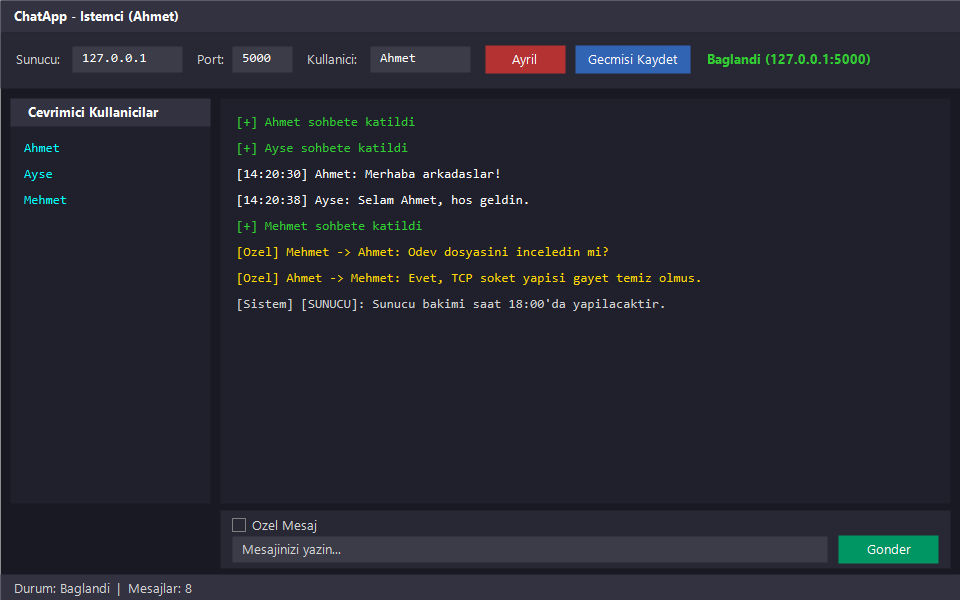
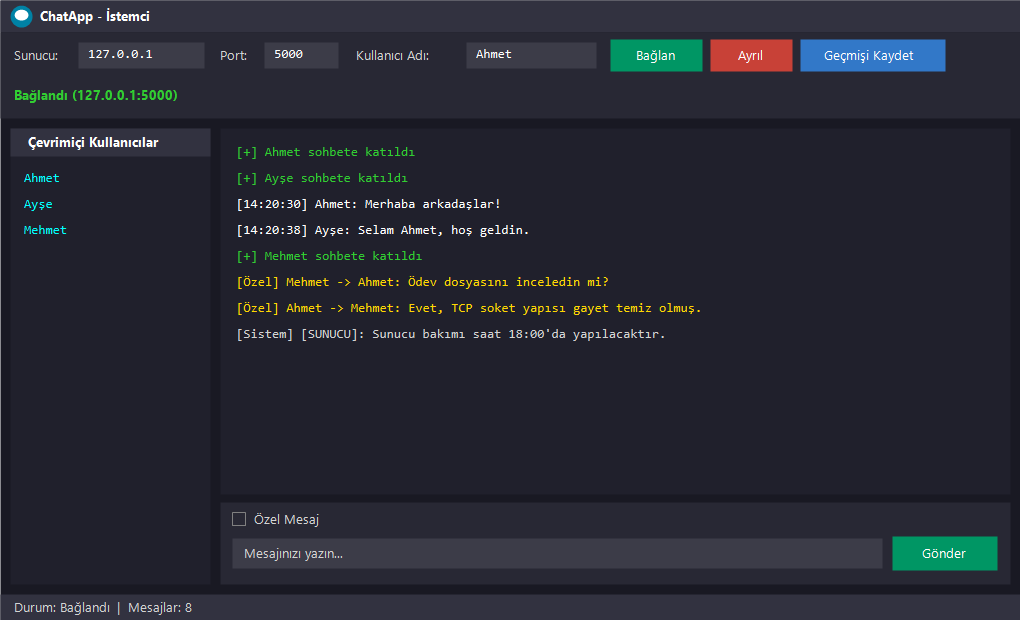
düzeltme: Sunucu ve istemci arayüz yerleşimleri, uygulama ikonları ve ekran görüntüleri yenilendi

diff --git a/src/ChatApp.Client/ClientForm.Designer.cs b/src/ChatApp.Client/ClientForm.Designer.cs
@@ -43,32 +43,31 @@ partial class ClientForm
 
         // pnlTop
         pnlTop.Dock = DockStyle.Top;
-        pnlTop.Height = 80;
+        pnlTop.Height = 92;
         pnlTop.BackColor = Color.FromArgb(40, 40, 50);
         pnlTop.Padding = new Padding(8);
 
-        int x = 8;
         lblHost.Text = "Sunucu:";
         lblHost.ForeColor = Color.LightGray;
-        lblHost.Location = new Point(x, 12);
+        lblHost.Location = new Point(10, 15);
         lblHost.AutoSize = true;
         pnlTop.Controls.Add(lblHost);
 
         txtHost.Text = "127.0.0.1";
-        txtHost.Location = new Point(x + 55, 8);
-        txtHost.Width = 120;
+        txtHost.Location = new Point(82, 11);
+        txtHost.Width = 130;
         txtHost.BackColor = Color.FromArgb(60, 60, 70);
         txtHost.ForeColor = Color.White;
         pnlTop.Controls.Add(txtHost);
 
         lblPort.Text = "Port:";
         lblPort.ForeColor = Color.LightGray;
-        lblPort.Location = new Point(x + 185, 12);
+        lblPort.Location = new Point(226, 15);
         lblPort.AutoSize = true;
         pnlTop.Controls.Add(lblPort);
 
-        nudPort.Location = new Point(x + 220, 8);
-        nudPort.Width = 70;
+        nudPort.Location = new Point(274, 11);
+        nudPort.Width = 78;
         nudPort.Minimum = 1024;
         nudPort.Maximum = 65535;
         nudPort.Value = 5000;
@@ -76,30 +75,30 @@ partial class ClientForm
         nudPort.ForeColor = Color.White;
         pnlTop.Controls.Add(nudPort);
 
-        lblUsername.Text = "Kullanici Adi:";
+        lblUsername.Text = "Kullanıcı Adı:";
         lblUsername.ForeColor = Color.LightGray;
-        lblUsername.Location = new Point(x + 300, 12);
+        lblUsername.Location = new Point(368, 15);
         lblUsername.AutoSize = true;
         pnlTop.Controls.Add(lblUsername);
 
-        txtUsername.Location = new Point(x + 390, 8);
-        txtUsername.Width = 120;
+        txtUsername.Location = new Point(485, 11);
+        txtUsername.Width = 135;
         txtUsername.BackColor = Color.FromArgb(60, 60, 70);
         txtUsername.ForeColor = Color.White;
         pnlTop.Controls.Add(txtUsername);
 
-        btnConnect.Text = "Baglan";
-        btnConnect.Location = new Point(x + 520, 6);
-        btnConnect.Size = new Size(90, 30);
+        btnConnect.Text = "Bağlan";
+        btnConnect.Location = new Point(634, 8);
+        btnConnect.Size = new Size(95, 34);
         btnConnect.BackColor = Color.FromArgb(0, 150, 100);
         btnConnect.ForeColor = Color.White;
         btnConnect.FlatStyle = FlatStyle.Flat;
         btnConnect.Click += btnConnect_Click;
         pnlTop.Controls.Add(btnConnect);
 
-        btnDisconnect.Text = "Ayril";
-        btnDisconnect.Location = new Point(x + 620, 6);
-        btnDisconnect.Size = new Size(90, 30);
+        btnDisconnect.Text = "Ayrıl";
+        btnDisconnect.Location = new Point(737, 8);
+        btnDisconnect.Size = new Size(85, 34);
         btnDisconnect.BackColor = Color.FromArgb(180, 50, 50);
         btnDisconnect.ForeColor = Color.White;
         btnDisconnect.FlatStyle = FlatStyle.Flat;
@@ -107,36 +106,36 @@ partial class ClientForm
         btnDisconnect.Click += btnDisconnect_Click;
         pnlTop.Controls.Add(btnDisconnect);
 
-        btnSaveHistory.Text = "Gecmisi Kaydet";
-        btnSaveHistory.Location = new Point(x + 720, 6);
-        btnSaveHistory.Size = new Size(110, 30);
+        btnSaveHistory.Text = "Geçmişi Kaydet";
+        btnSaveHistory.Location = new Point(830, 8);
+        btnSaveHistory.Size = new Size(155, 34);
         btnSaveHistory.BackColor = Color.FromArgb(50, 100, 180);
         btnSaveHistory.ForeColor = Color.White;
         btnSaveHistory.FlatStyle = FlatStyle.Flat;
         btnSaveHistory.Click += btnSaveHistory_Click;
         pnlTop.Controls.Add(btnSaveHistory);
 
-        lblStatus.Text = "Bagli Degil";
+        lblStatus.Text = "Bağlı Değil";
         lblStatus.ForeColor = Color.OrangeRed;
-        lblStatus.Location = new Point(8, 48);
+        lblStatus.Location = new Point(10, 58);
         lblStatus.AutoSize = true;
         pnlTop.Controls.Add(lblStatus);
 
         // splitMain
         splitMain.Dock = DockStyle.Fill;
-        splitMain.Size = new Size(1000, 560);
+        splitMain.Size = new Size(1020, 560);
         splitMain.Panel1MinSize = 150;
-        splitMain.Panel2MinSize = 300;
+        splitMain.Panel2MinSize = 400;
         splitMain.SplitterDistance = 190;
 
         // pnlUsers (left panel)
         pnlUsers.Dock = DockStyle.Fill;
         pnlUsers.BackColor = Color.FromArgb(30, 30, 40);
 
-        lblOnlineUsers.Text = "Cevrimici Kullanicilar";
+        lblOnlineUsers.Text = "Çevrimiçi Kullanıcılar";
         lblOnlineUsers.ForeColor = Color.LightGray;
         lblOnlineUsers.Dock = DockStyle.Top;
-        lblOnlineUsers.Height = 25;
+        lblOnlineUsers.Height = 28;
         lblOnlineUsers.TextAlign = ContentAlignment.MiddleCenter;
         lblOnlineUsers.BackColor = Color.FromArgb(50, 50, 60);
         pnlUsers.Controls.Add(lstUsers);
@@ -162,36 +161,38 @@ partial class ClientForm
 
         // pnlSend
         pnlSend.Dock = DockStyle.Bottom;
-        pnlSend.Height = 70;
+        pnlSend.Height = 86;
         pnlSend.BackColor = Color.FromArgb(40, 40, 50);
-        pnlSend.Padding = new Padding(6);
+        pnlSend.Padding = new Padding(8);
 
-        chkPrivate.Text = "Ozel Mesaj";
+        chkPrivate.Text = "Özel Mesaj";
         chkPrivate.ForeColor = Color.LightGray;
-        chkPrivate.Location = new Point(6, 6);
+        chkPrivate.Location = new Point(10, 10);
         chkPrivate.AutoSize = true;
         chkPrivate.CheckedChanged += chkPrivate_CheckedChanged;
         pnlSend.Controls.Add(chkPrivate);
 
-        cmbRecipient.Location = new Point(100, 4);
-        cmbRecipient.Width = 130;
+        cmbRecipient.Location = new Point(125, 7);
+        cmbRecipient.Width = 160;
         cmbRecipient.BackColor = Color.FromArgb(60, 60, 70);
         cmbRecipient.ForeColor = Color.White;
         cmbRecipient.FlatStyle = FlatStyle.Flat;
         cmbRecipient.Visible = false;
         pnlSend.Controls.Add(cmbRecipient);
 
-        txtMessage.Location = new Point(6, 36);
-        txtMessage.Width = 500;
-        txtMessage.Height = 24;
+        txtMessage.Location = new Point(10, 42);
+        txtMessage.Width = 680;
+        txtMessage.Height = 28;
+        txtMessage.Anchor = AnchorStyles.Top | AnchorStyles.Left | AnchorStyles.Right;
         txtMessage.BackColor = Color.FromArgb(60, 60, 70);
         txtMessage.ForeColor = Color.White;
         txtMessage.KeyDown += txtMessage_KeyDown;
         pnlSend.Controls.Add(txtMessage);
 
-        btnSend.Text = "Gonder";
-        btnSend.Location = new Point(515, 34);
-        btnSend.Size = new Size(90, 28);
+        btnSend.Text = "Gönder";
+        btnSend.Location = new Point(700, 40);
+        btnSend.Size = new Size(105, 32);
+        btnSend.Anchor = AnchorStyles.Top | AnchorStyles.Right;
         btnSend.BackColor = Color.FromArgb(0, 150, 100);
         btnSend.ForeColor = Color.White;
         btnSend.FlatStyle = FlatStyle.Flat;
@@ -200,7 +201,7 @@ partial class ClientForm
 
         // statusStrip
         statusStrip.BackColor = Color.FromArgb(30, 30, 40);
-        tsslState.Text = "Durum: Bagli Degil";
+        tsslState.Text = "Durum: Bağlı Değil";
         tsslState.ForeColor = Color.LightGray;
         tsslMsgCount.Text = "Mesajlar: 0";
         tsslMsgCount.ForeColor = Color.LightGray;
@@ -215,9 +216,9 @@ partial class ClientForm
         splitMain.Panel2.Controls.Add(pnlChat);
 
         // Form
-        this.Text = "ChatApp - Istemci";
-        this.Size = new Size(1000, 680);
-        this.MinimumSize = new Size(800, 500);
+        this.Text = "ChatApp - İstemci";
+        this.Size = new Size(1040, 700);
+        this.MinimumSize = new Size(1010, 540);
         this.BackColor = Color.FromArgb(25, 25, 35);
         this.Controls.Add(splitMain);
         this.Controls.Add(pnlTop);

diff --git a/src/ChatApp.Server/ServerForm.Designer.cs b/src/ChatApp.Server/ServerForm.Designer.cs
@@ -110,9 +110,9 @@ partial class ServerForm
         btnStart.FlatStyle = System.Windows.Forms.FlatStyle.Flat;
         btnStart.Font = new System.Drawing.Font("Segoe UI Semibold", 9.5F, System.Drawing.FontStyle.Bold);
         btnStart.ForeColor = System.Drawing.Color.White;
-        btnStart.Location = new System.Drawing.Point(145, 11);
+        btnStart.Location = new System.Drawing.Point(140, 10);
         btnStart.Name = "btnStart";
-        btnStart.Size = new System.Drawing.Size(135, 32);
+        btnStart.Size = new System.Drawing.Size(165, 34);
         btnStart.TabIndex = 2;
         btnStart.Text = "▶ Sunucuyu Başlat";
         btnStart.UseVisualStyleBackColor = false;
@@ -127,9 +127,9 @@ partial class ServerForm
         btnStop.FlatStyle = System.Windows.Forms.FlatStyle.Flat;
         btnStop.Font = new System.Drawing.Font("Segoe UI Semibold", 9.5F, System.Drawing.FontStyle.Bold);
         btnStop.ForeColor = System.Drawing.Color.White;
-        btnStop.Location = new System.Drawing.Point(288, 11);
+        btnStop.Location = new System.Drawing.Point(313, 10);
         btnStop.Name = "btnStop";
-        btnStop.Size = new System.Drawing.Size(135, 32);
+        btnStop.Size = new System.Drawing.Size(170, 34);
         btnStop.TabIndex = 3;
         btnStop.Text = "⏹ Sunucuyu Durdur";
         btnStop.UseVisualStyleBackColor = false;
@@ -143,9 +143,9 @@ partial class ServerForm
         btnSaveLogs.FlatStyle = System.Windows.Forms.FlatStyle.Flat;
         btnSaveLogs.Font = new System.Drawing.Font("Segoe UI Semibold", 9.5F, System.Drawing.FontStyle.Bold);
         btnSaveLogs.ForeColor = System.Drawing.Color.White;
-        btnSaveLogs.Location = new System.Drawing.Point(432, 11);
+        btnSaveLogs.Location = new System.Drawing.Point(491, 10);
         btnSaveLogs.Name = "btnSaveLogs";
-        btnSaveLogs.Size = new System.Drawing.Size(150, 32);
+        btnSaveLogs.Size = new System.Drawing.Size(185, 34);
         btnSaveLogs.TabIndex = 4;
         btnSaveLogs.Text = "💾 Logları Kaydet (.txt)";
         btnSaveLogs.UseVisualStyleBackColor = false;
@@ -157,7 +157,7 @@ partial class ServerForm
         lblStatusBadge.BackColor = System.Drawing.Color.FromArgb(149, 165, 166);
         lblStatusBadge.Font = new System.Drawing.Font("Segoe UI Bold", 9.5F);
         lblStatusBadge.ForeColor = System.Drawing.Color.White;
-        lblStatusBadge.Location = new System.Drawing.Point(676, 12);
+        lblStatusBadge.Location = new System.Drawing.Point(710, 11);
         lblStatusBadge.Name = "lblStatusBadge";
         lblStatusBadge.Size = new System.Drawing.Size(212, 30);
         lblStatusBadge.TabIndex = 5;
@@ -318,11 +318,11 @@ partial class ServerForm
         // 
         AutoScaleDimensions = new System.Drawing.SizeF(7F, 15F);
         AutoScaleMode = System.Windows.Forms.AutoScaleMode.Font;
-        ClientSize = new System.Drawing.Size(900, 558);
+        ClientSize = new System.Drawing.Size(960, 580);
         Controls.Add(splitContainer);
         Controls.Add(statusStrip);
         Controls.Add(topPanel);
-        MinimumSize = new System.Drawing.Size(760, 480);
+        MinimumSize = new System.Drawing.Size(920, 500);
         Name = "ServerForm";
         StartPosition = System.Windows.Forms.FormStartPosition.CenterScreen;
         Text = "YMH219 - TCP Chat Sunucusu (Server)";

diff --git a/src/ChatApp.Client/ClientForm.cs b/src/ChatApp.Client/ClientForm.cs
@@ -14,6 +14,12 @@ public partial class ClientForm : Form
     public ClientForm()
     {
         InitializeComponent();
+        try
+        {
+            if (!string.IsNullOrEmpty(Environment.ProcessPath))
+                this.Icon = Icon.ExtractAssociatedIcon(Environment.ProcessPath);
+        }
+        catch { }
     }
 
     // ─── Connect / Disconnect ───────────────────────────────────────────────

diff --git a/src/ChatApp.Server/ServerForm.cs b/src/ChatApp.Server/ServerForm.cs
@@ -14,6 +14,12 @@ public partial class ServerForm : Form
     public ServerForm()
     {
         InitializeComponent();
+        try
+        {
+            if (!string.IsNullOrEmpty(Environment.ProcessPath))
+                this.Icon = Icon.ExtractAssociatedIcon(Environment.ProcessPath);
+        }
+        catch { }
 
         _server = new TcpChatServer();
         _historyService = new ChatHistoryService();
